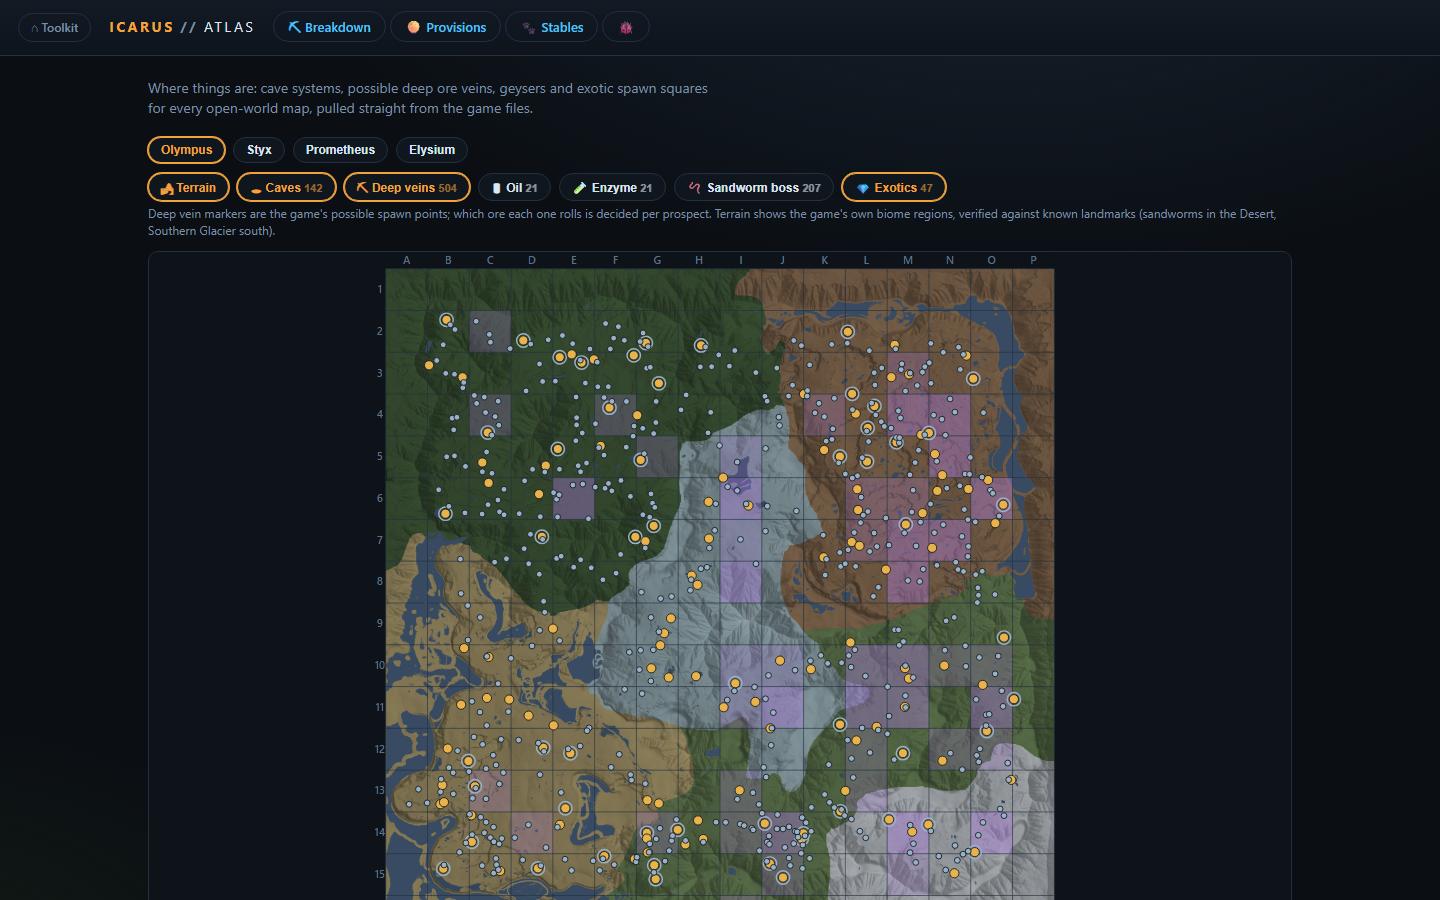
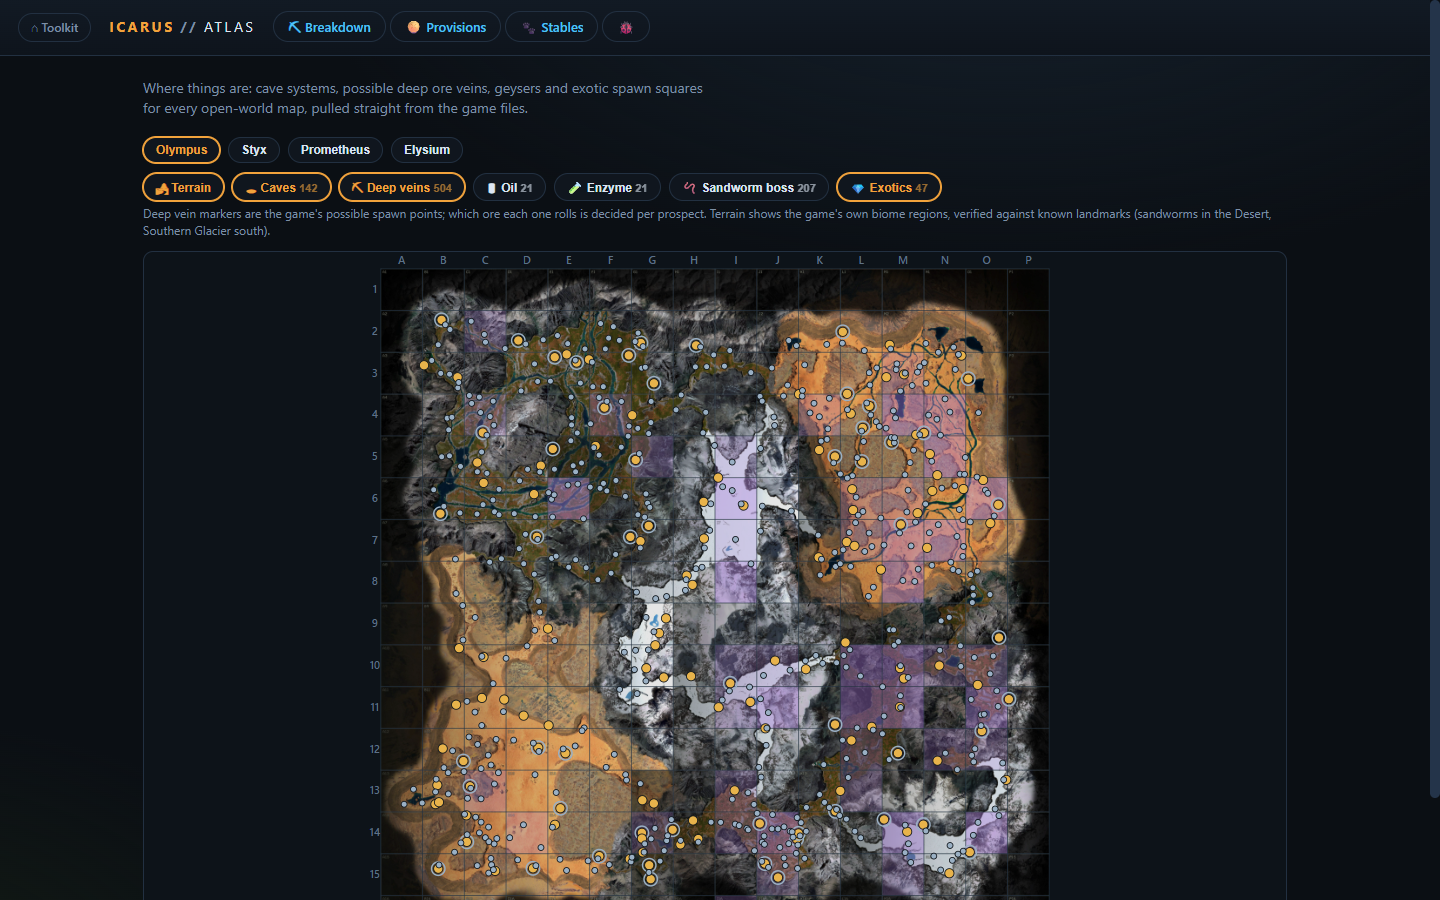
Atlas: high-detail Olympus terrain stitched from in-game map captures; closes #17
Terrain_016.jpg is now real in-game satellite imagery (6144x6144, 384px
per grid cell) assembled from 13 zoomed map screenshots by the new
scripts/stitch_map_screenshots.py: grid-line ridge detection snaps
vision-read cell labels to the true lattice, per-shot scale/offset fit,
best-capture-wins cell compositing, overlap-based exposure matching for
cloud-covered cells (J5-J8, G9-G13), plus retouch of a baked-in outpost
marker (C3/D3) and stray map icon (D12). Photo-based maps get a lighter
terrain treatment (atlas-terrain-photo) than the hillshade renders.

diff --git a/site/atlas.js b/site/atlas.js
@@ -19,6 +19,10 @@ const LAYER_META = {
 const SVGNS = "http://www.w3.org/2000/svg";
 const CELL = 100; // svg units per grid cell
 
+// maps whose terrain is stitched in-game satellite imagery (lighter CSS
+// treatment than the muted hillshade renders)
+const PHOTO_MAPS = new Set(["Terrain_016"]);
+
 function updateURL(kv) {
   const p = new URLSearchParams(location.search);
   for (const [k, v] of Object.entries(kv)) {
@@ -89,7 +93,8 @@ function renderMap() {
     el("image", {
       href: `maps/${mapId}.jpg`,
       x: 0, y: 0, width: G * CELL, height: G * CELL,
-      preserveAspectRatio: "none", class: "atlas-terrain",
+      preserveAspectRatio: "none",
+      class: PHOTO_MAPS.has(mapId) ? "atlas-terrain atlas-terrain-photo" : "atlas-terrain",
     }, svg);
   }
 

diff --git a/site/style.css b/site/style.css
@@ -547,6 +547,7 @@ body {
 }
 #atlas-cellinfo { margin-top: 10px; font-size: 13px; color: #b9c5d2; }
 .atlas-terrain { filter: saturate(.8) brightness(.72); opacity: .95; }
+.atlas-terrain-photo { filter: saturate(.92) brightness(.9); opacity: 1; }
 .atlas-exoring { pointer-events: none; }
 .atlas-caves { transition: r .1s; }
 .atlas-caves:hover { r: 14; }

diff --git a/scripts/stitch_map_screenshots.py b/scripts/stitch_map_screenshots.py
@@ -1,0 +1,324 @@
+"""Stitch in-game ICARUS map screenshots into one grid-registered map image.
+
+Input: a directory of screenshots of the in-game map (which draws a 16x16
+grid with cell labels like "C7" near each cell's top-left intersection),
+plus an anchors.json produced by vision agents that lists, per screenshot,
+the visible cell labels and their approximate positions as width/height
+fractions.
+
+The script does the precision work the agents cannot: it detects the actual
+grid-line pixel positions in each screenshot, snaps the approximate label
+anchors to the detected line lattice, fits an affine (scale + offset, no
+rotation) model per screenshot, then resamples whole cells onto a canonical
+canvas at a fixed pixels-per-cell so the result registers exactly with the
+site's atlas grid (cell A1 top-left, P16 bottom-right).
+
+Usage:
+  python scripts/stitch_map_screenshots.py \
+      --anchors anchors.json --shots-dir <dir> \
+      --out site/maps/Terrain_0XX.jpg --cell-px 384 [--grid 16]
+
+anchors.json format:
+  [{"file": "shot.png", "labels": [{"cell": "C7", "fx": 0.42, "fy": 0.31}]}]
+"""
+
+import argparse
+import json
+import sys
+from pathlib import Path
+
+import numpy as np
+from PIL import Image
+
+Image.MAX_IMAGE_PIXELS = None
+
+# Cell labels sit inside the cell, slightly right of and below the cell's
+# top-left grid intersection. As a fraction of one cell's span:
+LABEL_OFFSET = 0.06
+
+# A snapped anchor may not deviate from its predicted lattice position by
+# more than this fraction of a cell span, else it is dropped as misread.
+SNAP_TOL = 0.35
+
+
+def parse_cell(cell):
+    cell = cell.strip().upper()
+    col = ord(cell[0]) - 65
+    row = int(cell[1:]) - 1
+    return col, row
+
+
+def detect_lines(gray, axis):
+    """Score each column (axis=0) or row (axis=1) for being a grid line.
+
+    Grid lines are thin light overlays that persist across the whole frame,
+    while terrain edges are local. Score = mean over the cross axis of how
+    much a pixel exceeds the average of its neighbours a few px away.
+    """
+    a = gray.astype(np.float32)
+    if axis == 1:
+        a = a.T
+    left = np.roll(a, 4, axis=1)
+    right = np.roll(a, -4, axis=1)
+    ridge = a - (left + right) / 2.0
+    ridge[:, :4] = 0
+    ridge[:, -4:] = 0
+    return np.clip(ridge, 0, None).mean(axis=0)
+
+
+def peak_positions(score, min_sep):
+    """Local maxima of score at least min_sep apart, strongest first,
+    with sub-pixel refinement via parabola fit."""
+    idx = np.argsort(score)[::-1]
+    chosen = []
+    for i in idx:
+        if score[i] <= 0:
+            break
+        if all(abs(i - c) >= min_sep for c in chosen):
+            chosen.append(int(i))
+        if len(chosen) > 40:
+            break
+    out = []
+    for i in chosen:
+        if 1 <= i < len(score) - 1:
+            denom = score[i - 1] - 2 * score[i] + score[i + 1]
+            shift = 0.0 if denom == 0 else 0.5 * (score[i - 1] - score[i + 1]) / denom
+            out.append(i + float(np.clip(shift, -1, 1)))
+        else:
+            out.append(float(i))
+    return sorted(out)
+
+
+def fit_axis(anchor_px, anchor_idx, lines):
+    """Fit px = scale * grid_index + offset.
+
+    anchor_px: approximate pixel positions of intersections (from labels)
+    anchor_idx: their grid indices (col or row numbers)
+    lines: detected line positions to snap to
+    Returns (scale, offset, n_used).
+    """
+    anchor_px = np.asarray(anchor_px, dtype=np.float64)
+    anchor_idx = np.asarray(anchor_idx, dtype=np.float64)
+
+    # First pass: rough scale/offset straight from the (noisy) anchors.
+    if len(set(anchor_idx.tolist())) >= 2:
+        scale0, off0 = np.polyfit(anchor_idx, anchor_px, 1)
+    else:
+        raise ValueError("need labels spanning at least 2 columns and 2 rows")
+
+    # Snap each predicted intersection to the nearest detected line.
+    lines = np.asarray(lines, dtype=np.float64)
+    snapped_px, snapped_idx = [], []
+    for gi in sorted(set(anchor_idx.tolist())):
+        pred = scale0 * gi + off0
+        if len(lines) == 0:
+            continue
+        j = int(np.argmin(np.abs(lines - pred)))
+        if abs(lines[j] - pred) <= SNAP_TOL * abs(scale0):
+            snapped_px.append(lines[j])
+            snapped_idx.append(gi)
+    if len(snapped_px) >= 2:
+        scale, off = np.polyfit(snapped_idx, snapped_px, 1)
+        return float(scale), float(off), len(snapped_px)
+    return float(scale0), float(off0), 0
+
+
+def process_shot(entry, shots_dir, grid):
+    path = shots_dir / entry["file"]
+    img = Image.open(path).convert("RGB")
+    W, H = img.size
+    gray = np.asarray(img.convert("L"))
+
+    cols, rows, xs, ys = [], [], [], []
+    for lab in entry["labels"]:
+        try:
+            c, r = parse_cell(lab["cell"])
+        except (ValueError, IndexError):
+            continue
+        if not (0 <= c < grid and 0 <= r < grid):
+            continue
+        cols.append(c)
+        rows.append(r)
+        xs.append(lab["fx"] * W)
+        ys.append(lab["fy"] * H)
+    if len(set(cols)) < 2 or len(set(rows)) < 2:
+        raise ValueError(f"{entry['file']}: not enough distinct labels")
+
+    # Rough cell size from label lattice, used to pick peak separation and
+    # to shift label centers back onto their top-left intersections.
+    cw0 = abs(np.polyfit(cols, xs, 1)[0])
+    ch0 = abs(np.polyfit(rows, ys, 1)[0])
+    ax = [x - LABEL_OFFSET * cw0 for x in xs]
+    ay = [y - LABEL_OFFSET * ch0 for y in ys]
+
+    vlines = peak_positions(detect_lines(gray, axis=0), min_sep=cw0 * 0.5)
+    hlines = peak_positions(detect_lines(gray, axis=1), min_sep=ch0 * 0.5)
+
+    sx, ox, nx = fit_axis(ax, cols, vlines)
+    sy, oy, ny = fit_axis(ay, rows, hlines)
+    print(f"  {entry['file']}: {W}x{H}, cell {sx:.1f}x{sy:.1f}px, "
+          f"snapped {nx} cols / {ny} rows of {len(set(cols))}/{len(set(rows))} labels")
+    return {"img": img, "W": W, "H": H, "sx": sx, "ox": ox, "sy": sy, "oy": oy,
+            "file": entry["file"]}
+
+
+def sample_region(s, col0, row0, col1, row1, px=192):
+    """Resample the world-rect [col0..col1]x[row0..row1] (grid units) from
+    shot s to a px-wide thumbnail, returns float RGB array."""
+    x0 = s["sx"] * col0 + s["ox"]
+    y0 = s["sy"] * row0 + s["oy"]
+    x1 = s["sx"] * col1 + s["ox"]
+    y1 = s["sy"] * row1 + s["oy"]
+    h = max(1, int(px * (row1 - row0) / max(col1 - col0, 1e-6)))
+    tile = s["img"].transform(
+        (px, h), Image.AFFINE,
+        ((x1 - x0) / px, 0, x0, 0, (y1 - y0) / h, y0),
+        resample=Image.BILINEAR)
+    return np.asarray(tile, dtype=np.float32)
+
+
+def overlap_correction(cell, chosen, shots, grid, margin):
+    """If another shot shows part of this cell, fit a per-channel linear map
+    (match mean/std over the shared strip) that lifts the chosen shot's tile
+    to the other shot's exposure. Used to remove baked-in cloud/fog haze.
+    Returns (gain, bias) arrays or None."""
+    col = ord(cell[0]) - 65
+    row = int(cell[1:]) - 1
+    best = None
+    for s in shots:
+        if s is chosen:
+            continue
+        # visible sub-rect of this cell in shot s, in grid units
+        c0 = max(col, (-margin - s["ox"]) / s["sx"])
+        c1 = min(col + 1, (s["W"] + margin - s["ox"]) / s["sx"])
+        r0 = max(row, (-margin - s["oy"]) / s["sy"])
+        r1 = min(row + 1, (s["H"] + margin - s["oy"]) / s["sy"])
+        frac = max(0.0, c1 - c0) * max(0.0, r1 - r0)
+        if frac < 0.15:
+            continue
+        if best is None or frac > best[0]:
+            best = (frac, s, c0, r0, c1, r1)
+    if best is None:
+        return None
+    frac, s, c0, r0, c1, r1 = best
+    ref = sample_region(s, c0, r0, c1, r1)
+    fog = sample_region(chosen, c0, r0, c1, r1)
+    gain = ref.std(axis=(0, 1)) / np.maximum(fog.std(axis=(0, 1)), 1e-3)
+    gain = np.clip(gain, 0.5, 2.5)
+    bias = ref.mean(axis=(0, 1)) - gain * fog.mean(axis=(0, 1))
+    print(f"  defog {cell}: ref={Path(s['file']).stem[-6:]} overlap={frac:.2f} "
+          f"gain={np.round(gain, 2)} bias={np.round(bias, 1)}")
+    return gain, bias
+
+
+def stitch(shots, grid, cell_px, margin=3, prefer=None, dump_cells=None, dump_dir=None,
+           defog=None):
+    canvas = Image.new("RGB", (grid * cell_px, grid * cell_px), (8, 10, 12))
+    best = np.full((grid, grid), -1.0)
+    src = [[None] * grid for _ in range(grid)]
+    prefer = prefer or {}
+    dump_cells = dump_cells or set()
+
+    for s in shots:
+        for col in range(grid):
+            for row in range(grid):
+                x0 = s["sx"] * col + s["ox"]
+                y0 = s["sy"] * row + s["oy"]
+                x1 = x0 + s["sx"]
+                y1 = y0 + s["sy"]
+                if x0 < -margin or y0 < -margin or x1 > s["W"] + margin or y1 > s["H"] + margin:
+                    continue
+                cell = f"{chr(65 + col)}{row + 1}"
+                if cell in dump_cells and dump_dir:
+                    tile = s["img"].transform(
+                        (cell_px, cell_px), Image.AFFINE,
+                        ((x1 - x0) / cell_px, 0, x0, 0, (y1 - y0) / cell_px, y0),
+                        resample=Image.BICUBIC)
+                    tile.save(Path(dump_dir) / f"dump_{cell}_{Path(s['file']).stem[-6:]}.png")
+                # Explicit override wins; else prefer the capture where this
+                # cell sits farthest from the frame border (less vignette,
+                # no UI chrome or map-edge fog at frame edges).
+                cx, cy = (x0 + x1) / 2, (y0 + y1) / 2
+                pref = min(cx, cy, s["W"] - cx, s["H"] - cy)
+                want = prefer.get(cell)
+                if want is not None:
+                    pref = pref + 1e6 if want in s["file"] else -1e6
+                if pref > best[row][col]:
+                    best[row][col] = pref
+                    src[row][col] = (s, x0, y0, x1, y1)
+
+    defog = defog or set()
+    filled = 0
+    for row in range(grid):
+        for col in range(grid):
+            if src[row][col] is None:
+                continue
+            s, x0, y0, x1, y1 = src[row][col]
+            tile = s["img"].transform(
+                (cell_px, cell_px), Image.AFFINE,
+                ((x1 - x0) / cell_px, 0, x0, 0, (y1 - y0) / cell_px, y0),
+                resample=Image.BICUBIC)
+            cell = f"{chr(65 + col)}{row + 1}"
+            if cell in defog:
+                corr = overlap_correction(cell, s, shots, grid, margin)
+                if corr is not None:
+                    gain, bias = corr
+                    arr = np.asarray(tile, dtype=np.float32) * gain + bias
+                    tile = Image.fromarray(np.clip(arr, 0, 255).astype(np.uint8))
+            canvas.paste(tile, (col * cell_px, row * cell_px))
+            filled += 1
+
+    missing = [f"{chr(65 + c)}{r + 1}" for r in range(grid) for c in range(grid)
+               if src[r][c] is None]
+    print(f"filled {filled}/{grid * grid} cells")
+    if missing:
+        print("MISSING cells: " + ", ".join(missing))
+    return canvas, missing
+
+
+def main():
+    ap = argparse.ArgumentParser()
+    ap.add_argument("--anchors", required=True)
+    ap.add_argument("--shots-dir", required=True)
+    ap.add_argument("--out", required=True)
+    ap.add_argument("--cell-px", type=int, default=384)
+    ap.add_argument("--grid", type=int, default=16)
+    ap.add_argument("--quality", type=int, default=82)
+    ap.add_argument("--prefer", default="",
+                    help="comma list CELL=filename-substring to force a cell's source shot")
+    ap.add_argument("--dump-cells", default="",
+                    help="comma list of cells; save every candidate tile for each to --dump-dir")
+    ap.add_argument("--dump-dir", default=".")
+    ap.add_argument("--defog", default="",
+                    help="comma list of cells to exposure-match against overlapping shots")
+    args = ap.parse_args()
+
+    prefer = {}
+    for kv in filter(None, args.prefer.split(",")):
+        cell, _, want = kv.partition("=")
+        prefer[cell.strip().upper()] = want.strip()
+    dump_cells = {c.strip().upper() for c in args.dump_cells.split(",") if c.strip()}
+
+    with open(args.anchors, encoding="utf-8") as f:
+        anchors = json.load(f)
+
+    shots = []
+    for entry in anchors:
+        try:
+            shots.append(process_shot(entry, Path(args.shots_dir), args.grid))
+        except ValueError as e:
+            print(f"  SKIP: {e}", file=sys.stderr)
+
+    canvas, missing = stitch(shots, args.grid, args.cell_px, prefer=prefer,
+                             dump_cells=dump_cells, dump_dir=args.dump_dir,
+                             defog={c.strip().upper() for c in args.defog.split(",") if c.strip()})
+    out = Path(args.out)
+    out.parent.mkdir(parents=True, exist_ok=True)
+    canvas.save(out, "JPEG", quality=args.quality, optimize=True)
+    print(f"wrote {out} ({out.stat().st_size / 1e6:.1f} MB, "
+          f"{canvas.size[0]}x{canvas.size[1]})")
+    return 1 if missing else 0
+
+
+if __name__ == "__main__":
+    sys.exit(main())

diff --git a/README.md b/README.md
@@ -38,9 +38,12 @@ saddle options per mount with crafting-cost links; and animal feed buffs.
 
 Where things are - cave systems, possible deep ore vein spawns, oil and enzyme
 geysers, sandworm boss points and exotic spawn squares for every open-world
-map (Olympus, Styx, Prometheus, Elysium), drawn over hillshaded relief
-rendered from the game's landscape heightmaps, on the same lettered grid the
-in-game map uses. Click a cave for its template contents: size, entrances,
+map (Olympus, Styx, Prometheus, Elysium), on the same lettered grid the
+in-game map uses. Olympus terrain is the real in-game satellite imagery,
+stitched grid-true from a full set of zoomed map captures
+(`scripts/stitch_map_screenshots.py`); the other maps use hillshaded relief
+rendered from the game's landscape heightmaps until they get the same
+treatment. Click a cave for its template contents: size, entrances,
 deep veins inside, guaranteed exotic spawns, cave lakes and creature spawns
 (caves with exotics get a highlight ring). Marker positions are extracted
 from the terrain level files; deep vein markers are the game's possible
@@ -64,6 +67,10 @@ Deploys automatically to GitHub Pages on push to `main`
 - `scripts/build_provisions_data.py` / `build_stables_data.py` /
   `build_atlas_data.py` - compile `provisions.json`, `stables.json` and
   `atlas.json` for the other tools.
+- `scripts/stitch_map_screenshots.py` - assembles zoomed in-game map
+  screenshots into one grid-registered terrain image (detects the map's own
+  grid lines, snaps agent-read cell labels to them, composites whole cells,
+  with optional exposure matching for cloud-covered captures).
 - `tools/atlas-export/` - .NET 10 + CUE4Parse exporter that sweeps the terrain
   `.umap` files for placed markers (caves, deep vein spawns, geysers, worm
   points) into `data/atlas-raw/`. Only needed when refreshing after a game
